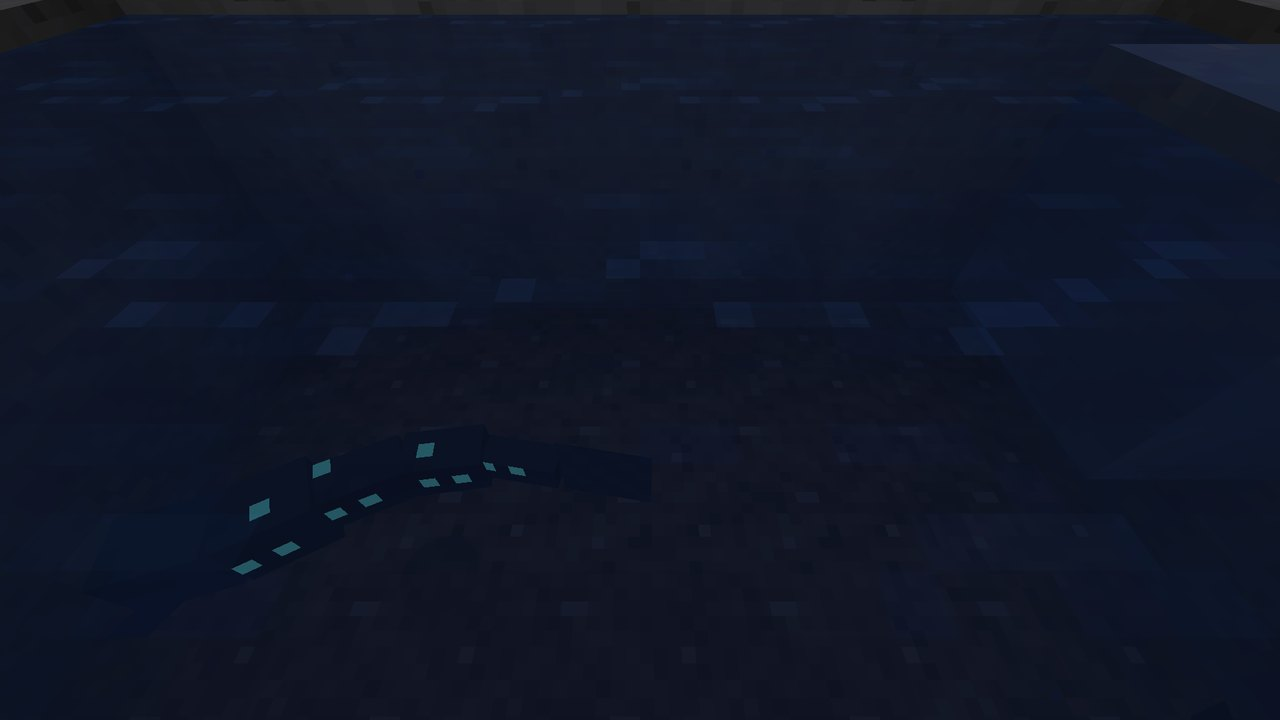
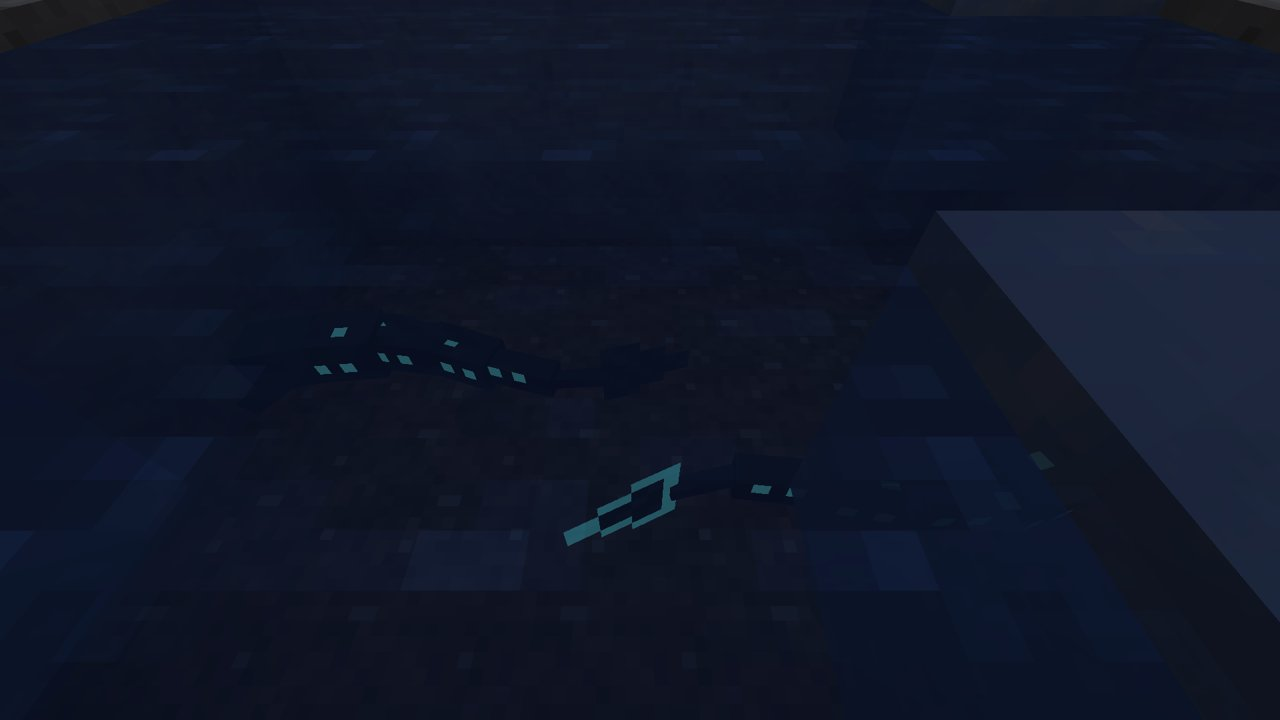
Rework the glow serpent's tail: no more flat card
Five segments tapering to a thin tail, a low dorsal fin row on the
middle segments and a tall fin that tapers to a point at the back with
a glowing rim (glow layer) instead of the big square plane; the swim
wave grows toward the tail and the fin flicks a beat behind. Fins are
painted on one face only. Before/after and Europa frames.

diff --git a/src/main/java/com/pizzaparker07/spacebreaker/client/jupiter/GlowSerpentModel.java b/src/main/java/com/pizzaparker07/spacebreaker/client/jupiter/GlowSerpentModel.java
@@ -13,44 +13,56 @@ import net.minecraft.client.model.geom.builders.PartDefinition;
 import net.minecraft.util.Mth;
 
 /**
- * Under-Ice Glow Serpent: a blunt head with two feeler barbels, four tapering body segments chained one behind the
- * other, and a flat tail fin. The body swims in a travelling wave. UVs: tools/textures/modules/jupiter.py.
+ * Under-Ice Glow Serpent: a blunt head with two feeler barbels, five segments tapering to a thin tail, a low dorsal fin
+ * row on the middle segments, and a tall pointed tail fin with a glowing rim. The body swims in a travelling wave that
+ * grows toward the tail. Fins are single planes painted on one face only (the mob renders without culling). UVs:
+ * tools/textures/modules/jupiter.py.
  */
 public class GlowSerpentModel extends HierarchicalModel<GlowSerpent> {
     public static final ModelLayerLocation LAYER = new ModelLayerLocation(Spacebreaker.id("glow_serpent"), "main");
+    private static final int SEGMENTS = 5;
     private final ModelPart root;
     private final ModelPart head;
-    private final ModelPart[] segments = new ModelPart[4];
+    private final ModelPart[] segments = new ModelPart[SEGMENTS];
+    private final ModelPart fin;
 
     public GlowSerpentModel(ModelPart root) {
         this.root = root;
         this.head = root.getChild("head");
         ModelPart p = head;
-        for (int i = 0; i < 4; i++) {
+        for (int i = 0; i < SEGMENTS; i++) {
             p = p.getChild("seg" + i);
             segments[i] = p;
         }
+        fin = p.getChild("fin");
     }
 
     public static LayerDefinition createLayer() {
         MeshDefinition mesh = new MeshDefinition();
         PartDefinition root = mesh.getRoot();
         PartDefinition head = root.addOrReplaceChild("head", CubeListBuilder.create().texOffs(0, 0).addBox(-2F, -2F, -5F, 4F, 4F, 5F),
-                PartPose.offset(0F, 21F, -8F));
+                PartPose.offset(0F, 21F, -10F));
         head.addOrReplaceChild("barbel_left", CubeListBuilder.create().texOffs(0, 9).addBox(0F, 0F, -3F, 0F, 2F, 3F),
                 PartPose.offsetAndRotation(1.5F, 1F, -4F, 0.3F, -0.5F, 0F));
         head.addOrReplaceChild("barbel_right", CubeListBuilder.create().texOffs(0, 9).addBox(0F, 0F, -3F, 0F, 2F, 3F),
                 PartPose.offsetAndRotation(-1.5F, 1F, -4F, 0.3F, 0.5F, 0F));
-        int[][] seg = {{18, 0, 4, 4, 5}, {36, 0, 3, 3, 5}, {18, 10, 3, 3, 5}, {36, 10, 2, 2, 5}};
+        // u, v, w, h, length
+        int[][] seg = {{18, 0, 4, 4, 5}, {36, 0, 3, 3, 5}, {18, 10, 3, 3, 5}, {36, 10, 2, 2, 5}, {40, 20, 1, 1, 4}};
         PartDefinition parent = head;
-        for (int i = 0; i < 4; i++) {
+        for (int i = 0; i < SEGMENTS; i++) {
             int w = seg[i][2];
             int h = seg[i][3];
             PartDefinition p = parent.addOrReplaceChild("seg" + i, CubeListBuilder.create().texOffs(seg[i][0], seg[i][1])
-                    .addBox(-w / 2F, -h / 2F, 0F, w, h, seg[i][4]), PartPose.offset(0F, 0F, i == 0 ? 0F : 5F));
+                    .addBox(-w / 2F, -h / 2F, 0F, w, h, seg[i][4]), PartPose.offset(0F, 0F, i == 0 ? 0F : seg[i - 1][4]));
+            if (i == 1 || i == 2) {
+                // a low dorsal fin on the middle segments
+                p.addOrReplaceChild("dorsal", CubeListBuilder.create().texOffs(16, 22).addBox(0F, -2F, 0F, 0F, 2F, 3F),
+                        PartPose.offset(0F, -h / 2F, 1F));
+            }
             parent = p;
         }
-        parent.addOrReplaceChild("fin", CubeListBuilder.create().texOffs(0, 16).addBox(0F, -3F, 0F, 0F, 6F, 6F), PartPose.offset(0F, 0F, 5F));
+        // the tall pointed tail fin, standing upright, its rim glowing (glow layer)
+        parent.addOrReplaceChild("fin", CubeListBuilder.create().texOffs(0, 16).addBox(0F, -3F, 0F, 0F, 6F, 7F), PartPose.offset(0F, 0F, 3.5F));
         return LayerDefinition.create(mesh, 64, 32);
     }
 
@@ -62,11 +74,13 @@ public class GlowSerpentModel extends HierarchicalModel<GlowSerpent> {
     @Override
     public void setupAnim(GlowSerpent s, float limbSwing, float limbSwingAmount, float ageInTicks, float netHeadYaw, float headPitch) {
         float t = ageInTicks * 0.3F;
-        float amp = s.isInWater() ? 0.35F : 0.6F;
+        float amp = s.isInWater() ? 0.3F : 0.5F;
         head.yRot = Mth.sin(t) * 0.12F;
         head.xRot = headPitch * Mth.DEG_TO_RAD;
-        for (int i = 0; i < 4; i++) {
-            segments[i].yRot = Mth.sin(t - (i + 1) * 0.9F) * amp;
+        // the wave grows toward the tail; the fin flicks a beat behind the last segment
+        for (int i = 0; i < SEGMENTS; i++) {
+            segments[i].yRot = Mth.sin(t - (i + 1) * 0.9F) * amp * (0.7F + i * 0.15F);
         }
+        fin.yRot = Mth.sin(t - (SEGMENTS + 1) * 0.9F) * amp * 0.8F;
     }
 }

diff --git a/tools/textures/modules/jupiter.py b/tools/textures/modules/jupiter.py
@@ -277,17 +277,39 @@ def glow_serpent():
     paint(cv, 0, 0, 4, 4, 5, skin(2))
     for u, v, w, h in ((18, 0, 4, 4), (36, 0, 3, 3), (18, 10, 3, 3), (36, 10, 2, 2)):
         paint(cv, u, v, w, h, 5, skin(1))
-    # barbels and fin: thin membranes
+    paint(cv, 40, 20, 1, 1, 4, skin(1))
+    # barbels: thin membranes
     for y in range(9, 14):
         for x in range(0, 6):
             cv[x, y] = r[3]
-    for y in range(16, 28):
-        for x in range(0, 12):
-            if (x + y) % 3 == 0:
-                cv[x, y] = r[4]
-            else:
-                cv[x, y] = r[2]
+    # fins: painted on one face only (the 'right' face of each plane), the other left transparent
+    for (fx, fy, fw, fh) in FIN_FACES:
+        for y in range(fh):
+            for x in range(fw):
+                if _fin_shape(x, y, fw, fh):
+                    cv[fx + x, fy + y] = r[4] if (x + y) % 3 == 0 else r[2]
     return cv
+
+
+# the tail fin (0x6x7 plane at (0, 16): its right face at (0, 23), 7 wide (along the body) x 6 tall) and the dorsal
+# fin (0x2x3 plane at (16, 22): right face at (16, 25), 3 x 2)
+FIN_FACES = [(0, 23, 7, 6), (16, 25, 3, 2)]
+
+
+def _fin_shape(x, y, fw, fh):
+    """A fin tapering to a point at the back. On a plane's 'right' face u runs from the back (+z) toward the front, so
+    the root is the last column (x = fw - 1) and the tip the first."""
+    x = fw - 1 - x
+    mid = (fh - 1) / 2
+    half = (fh / 2) * (1 - x / fw) + 0.5
+    return abs(y - mid) <= half
+
+
+def _fin_rim(x, y, fw, fh):
+    if not _fin_shape(x, y, fw, fh):
+        return False
+    return any(not _fin_shape(x + dx, y + dy, fw, fh) or not (0 <= x + dx < fw and 0 <= y + dy < fh)
+               for dx, dy in ((1, 0), (0, 1), (0, -1)))
 
 
 SERPENT_SPOTS = [
@@ -306,6 +328,12 @@ def glow_serpent_glow():
     g = P.SERPENT_GLOW
     for i, (x, y) in enumerate(SERPENT_SPOTS):
         cv[x, y] = g[2] if i < 2 else g[1]
+    # the tail fin's glowing rim
+    fx, fy, fw, fh = FIN_FACES[0]
+    for y in range(fh):
+        for x in range(fw):
+            if _fin_rim(x, y, fw, fh):
+                cv[fx + x, fy + y] = g[1]
     return cv
 
 

diff --git a/docs/CONTENT.md b/docs/CONTENT.md
@@ -394,7 +394,7 @@ Her içerik paketi gerçek istemcide vitrin dünyasında fotoğraflanır; onayda
 | Venüs (bulutlar) 🎨 | Asit Vatozu (süzülen, tarafsız; kükürt ve deri bırakır), Bulut Medüzü (pasif gaz kesesi; Kaldırma Gazı Kesesi bırakır: kullanınca 30 sn yavaş düşüş) |
 | Merkür 🎨 | Alacakaranlık Sürüngeni (tehlikeli; grafit bırakır; gece-gündüz sınırında yaşar; güneş yükselince ya da gece çökünce toprağa gömülür), Oyuk Salyangozu (pasif, faydalı: oyuk tortusunu kazıyıp kükürt bırakır, kükürtle çoğalır) |
 | Io 🎨 | Kükürt Yengeci (ısıya dayanıklı, yakınına gelene saldırır) |
-| Europa 🎨 | Buzaltı Işık Yılanı (biyolüminesan, pasif; tuzlu su havuzlarında ve gömülü okyanusta) |
+| Europa 🎨 | Buzaltı Işık Yılanı (biyolüminesan, pasif; kuyruğa doğru incelen beş segment, sırtta alçak yüzgeç sırası, kenarı ışıyan sivri kuyruk yüzgeci, kuyrukta güçlenen yüzme dalgası; tuzlu su havuzlarında ve gömülü okyanusta) |
 | Ganymede 🎨 | Oluk Otlayıcısı (zırhlı, sürü halinde, okyanus tuzuyla çoğalır) |
 | Kallisto 🎨 | Krater Sıçrayıcısı (alçak, koyu kahve-gri; sırtında krater kenarı gibi üç beyaz halka plaka, ensesine yatık iki kemik boynuz plakası, yaylı eklemli arka bacaklar ve küt kuyruk; ürkek, düşük yerçekiminde uzun sıçrayışlarla kaçar) |
 | Titan 🎨 | Metan Kayıcısı (metan göllerinin üstünde yürür: koyu kahve-zeytin üç parçalı gövde (iri gözlü küçük baş, göğüs, soluk mavi şeritli uzun karın) sıvıya çok yakın durur; kısa kavrayıcı ön bacaklar, dizleri gövdeden yüksekte çok uzun orta ve arka bacaklar, uçlarında yüzeyde halka dalga bırakan parlak pedler; kayarken bacaklar kürek gibi birlikte iter) · Tolin Solucanı (bal rengi, ortası kalın boğumlu gövde, sırtta kılçık sırası, dört dudaklı ağız konisi (içi koyu turuncu) eleyerek açılıp kapanır; kumul denizlerinde ürkek kazıcı: gömülüyken yalnız kılçıkları görünür; yaklaşınca kuma gömülür, sessizlikte çıkar, kumu eleyip ara sıra tolin bırakır; tolin kumuyla çoğalır) |
